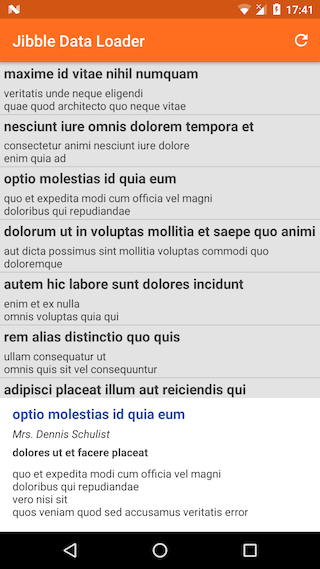
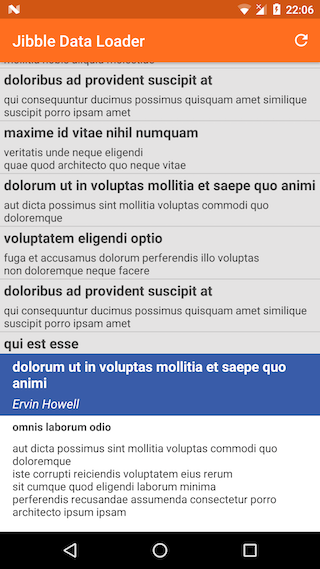
refactor: Update some UI components

Changed region(s): [[0.0, 0.0896, 1.0, 0.9262], [0.875, 0.0, 1.0, 0.0299]]

diff --git a/app/src/main/java/com/uludag/can/jibbledevelopertest/ui/home/HomeActivity.java b/app/src/main/java/com/uludag/can/jibbledevelopertest/ui/home/HomeActivity.java
@@ -23,6 +23,7 @@ import android.widget.Button;
 import android.widget.EditText;
 import android.widget.ImageView;
 import android.widget.ProgressBar;
+import android.widget.RelativeLayout;
 import android.widget.TextView;
 
 import com.google.gson.Gson;
@@ -80,6 +81,8 @@ public class HomeActivity extends AppCompatActivity
     // For the BottomSheet Display Detail
     @BindView(R.id.bottomSheetContainerDisplayDetail)
     ConstraintLayout mBottomSheetContainerDisplayDetail;
+    @BindView(R.id.rlPeekArea)
+    RelativeLayout rlPeekArea;
     @BindView(R.id.tvDataDetailPostTitle)
     TextView tvDataDetailPostTitle;
     @BindView(R.id.tvDataDetailUser)
@@ -234,8 +237,8 @@ public class HomeActivity extends AppCompatActivity
 
     @Override
     public void displayFailSnackBar() {
-        Snackbar
-                .make(mCoordinatorContainer, getString(R.string.snackbar_error_fetching_data), Snackbar.LENGTH_INDEFINITE)
+        Snackbar.make(mCoordinatorContainer, getString(R.string.snackbar_error_fetching_data)
+                , Snackbar.LENGTH_INDEFINITE)
                 .setAction(R.string.snackbar_action_retry, view -> {
                     mPresenter.fetchCombinedData();
                 })
@@ -331,7 +334,7 @@ public class HomeActivity extends AppCompatActivity
         setDetailBottomSheetFields(dataPosition);
         toggleEditDataBottomSheet(false);
         mDisplayDataBottomSheetBehavior
-                .setPeekHeight(180);
+                .setPeekHeight(rlPeekArea.getHeight());
         toggleDisplayDataBottomSheet(true);
     }
 

diff --git a/README.md b/README.md
@@ -7,6 +7,7 @@ Prerequisites
 * Java 1.8
 * Kotlin Plugin 1.2.21
 * Android Studio 3.0 and above
+* Gradle 4.1
 
 Fake API That Used In This Project
 ------------------------------------
